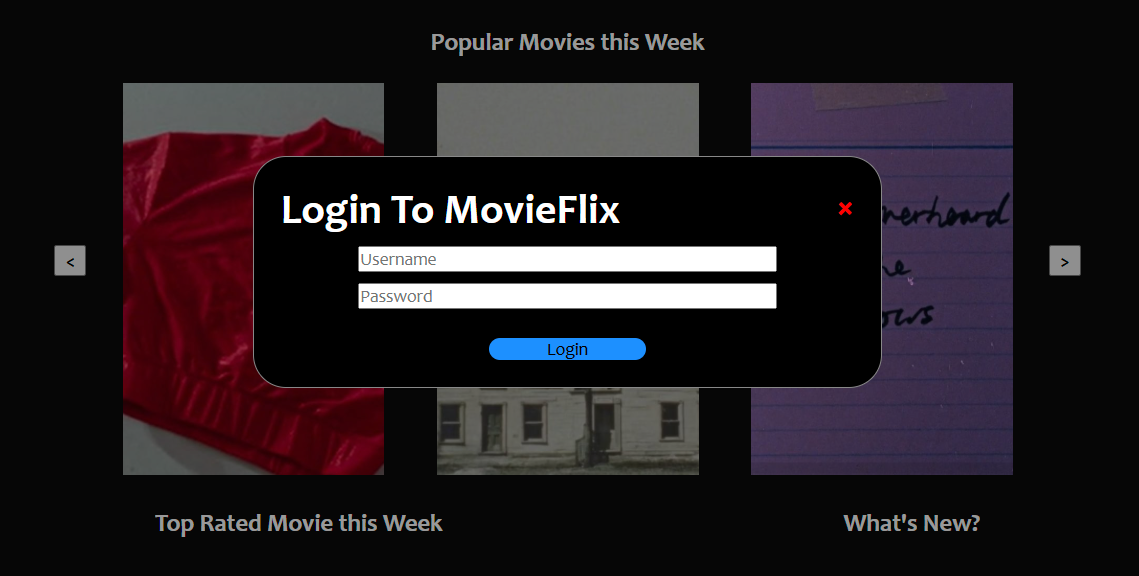
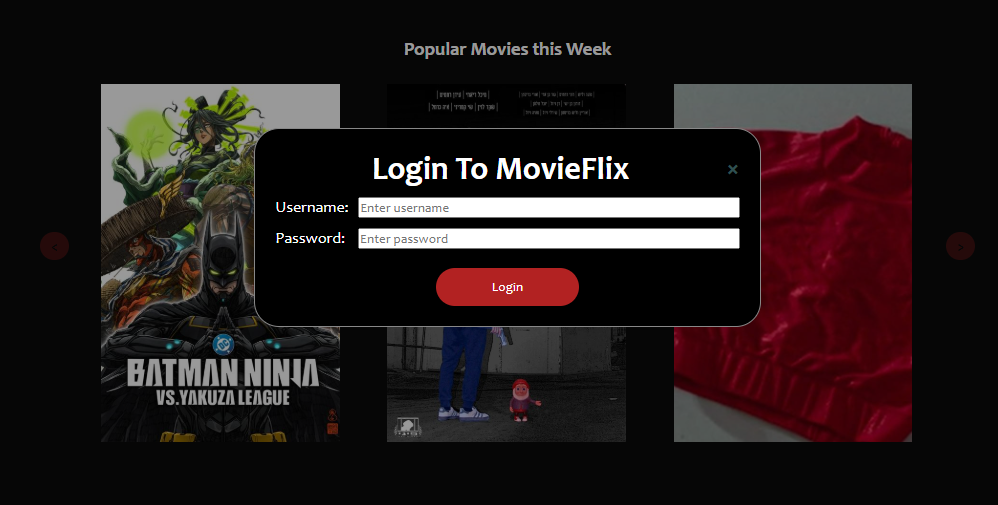
new screenshots to match updated ui

diff --git a/client/static/modal.css b/client/static/modal.css
@@ -22,7 +22,7 @@ body {
   margin: auto;
   padding: 20px;
   border: 1px solid #888;
-  width: 60vh;
+  width: fit-content;
   align-items: right;
   border-radius: 25px;;
 } 
